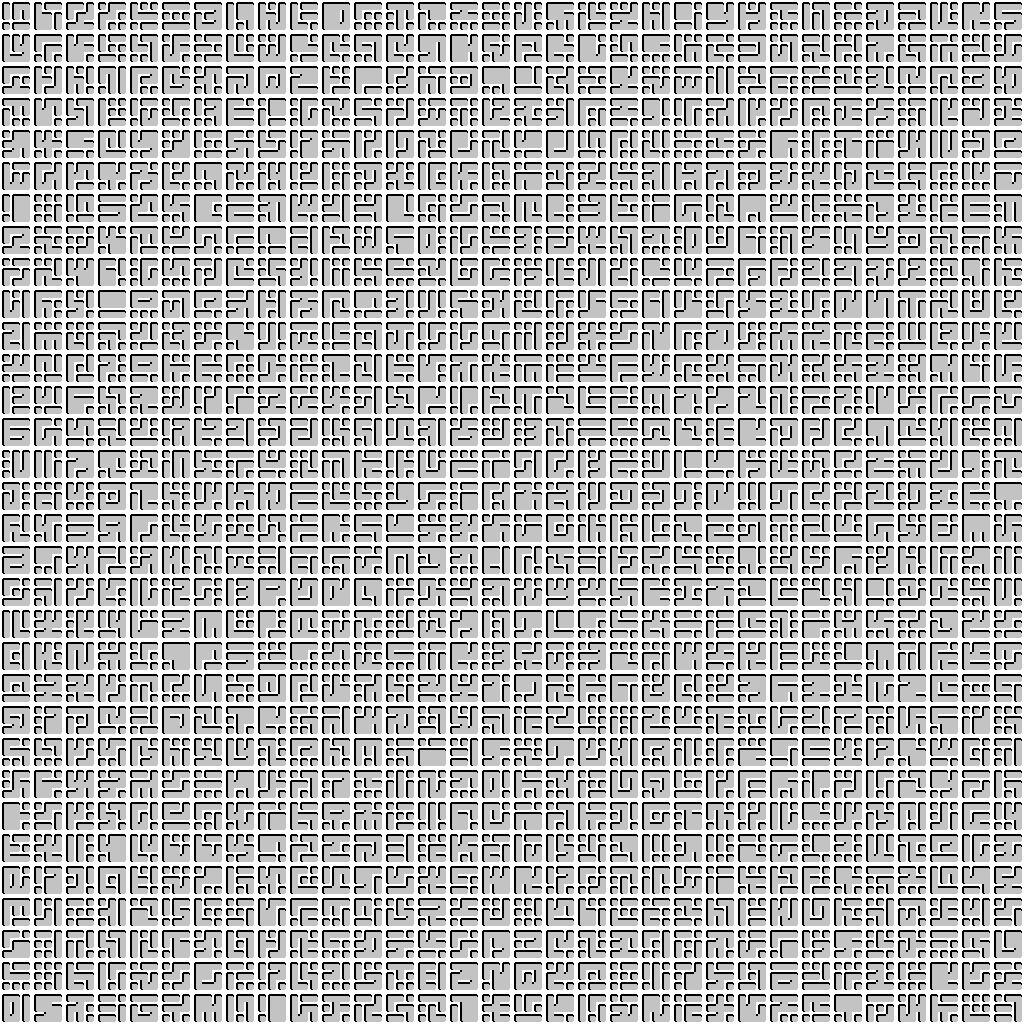
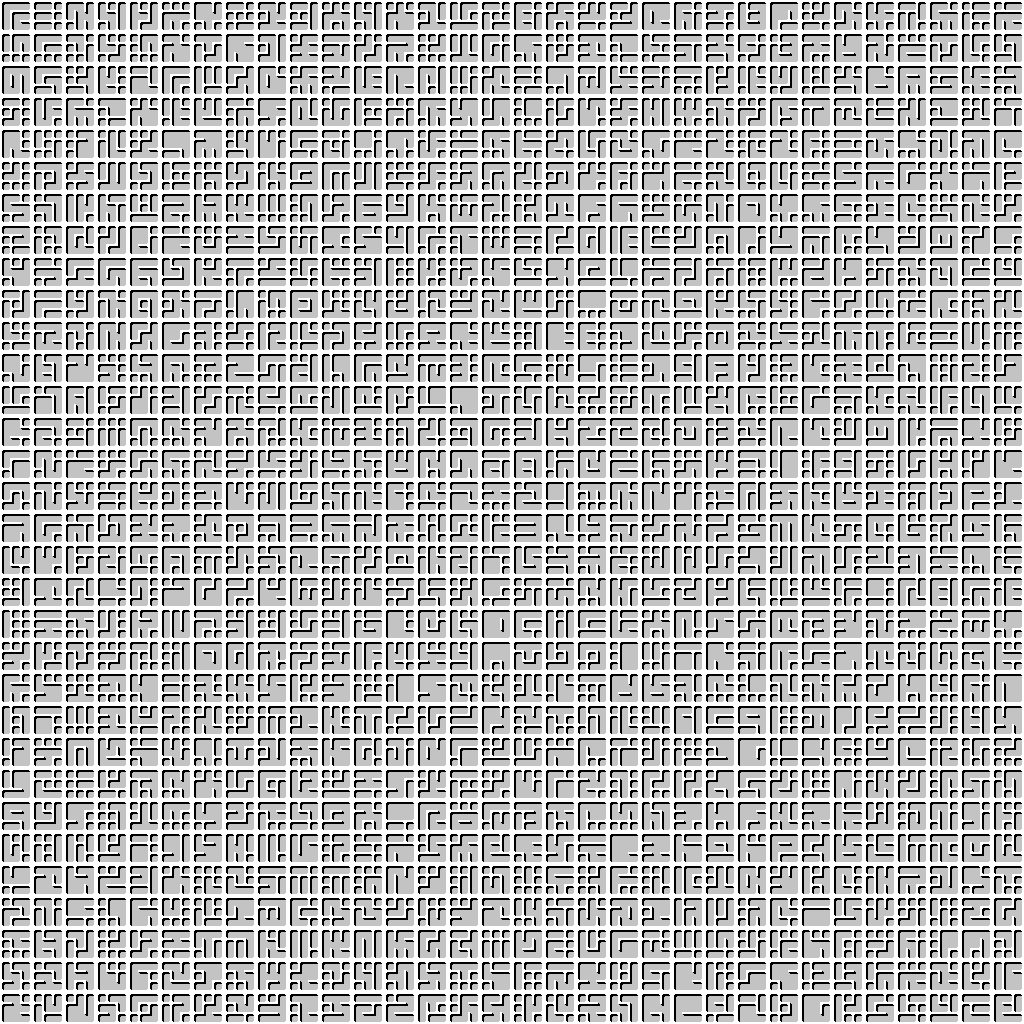
Changed shadows somewhat

Changed region(s): [[0.0, 0.0, 1.0, 1.0]]

diff --git a/sprite.py b/sprite.py
@@ -156,7 +156,7 @@ def draw_shadows(array):
   for y in range(len(array)):
     for x in range(len(array[y])):
       if(array[y][x]==0):
-        if(array[y-1][x]==255 or array[y][x-1]==255 or array[y-2][x]==255 or array[y][x-2]==255):
+        if(array[y-1][x-1]==255 or array[y-2][x-2]==255):
           output[y][x]=0
         else:
           output[y][x]=195
